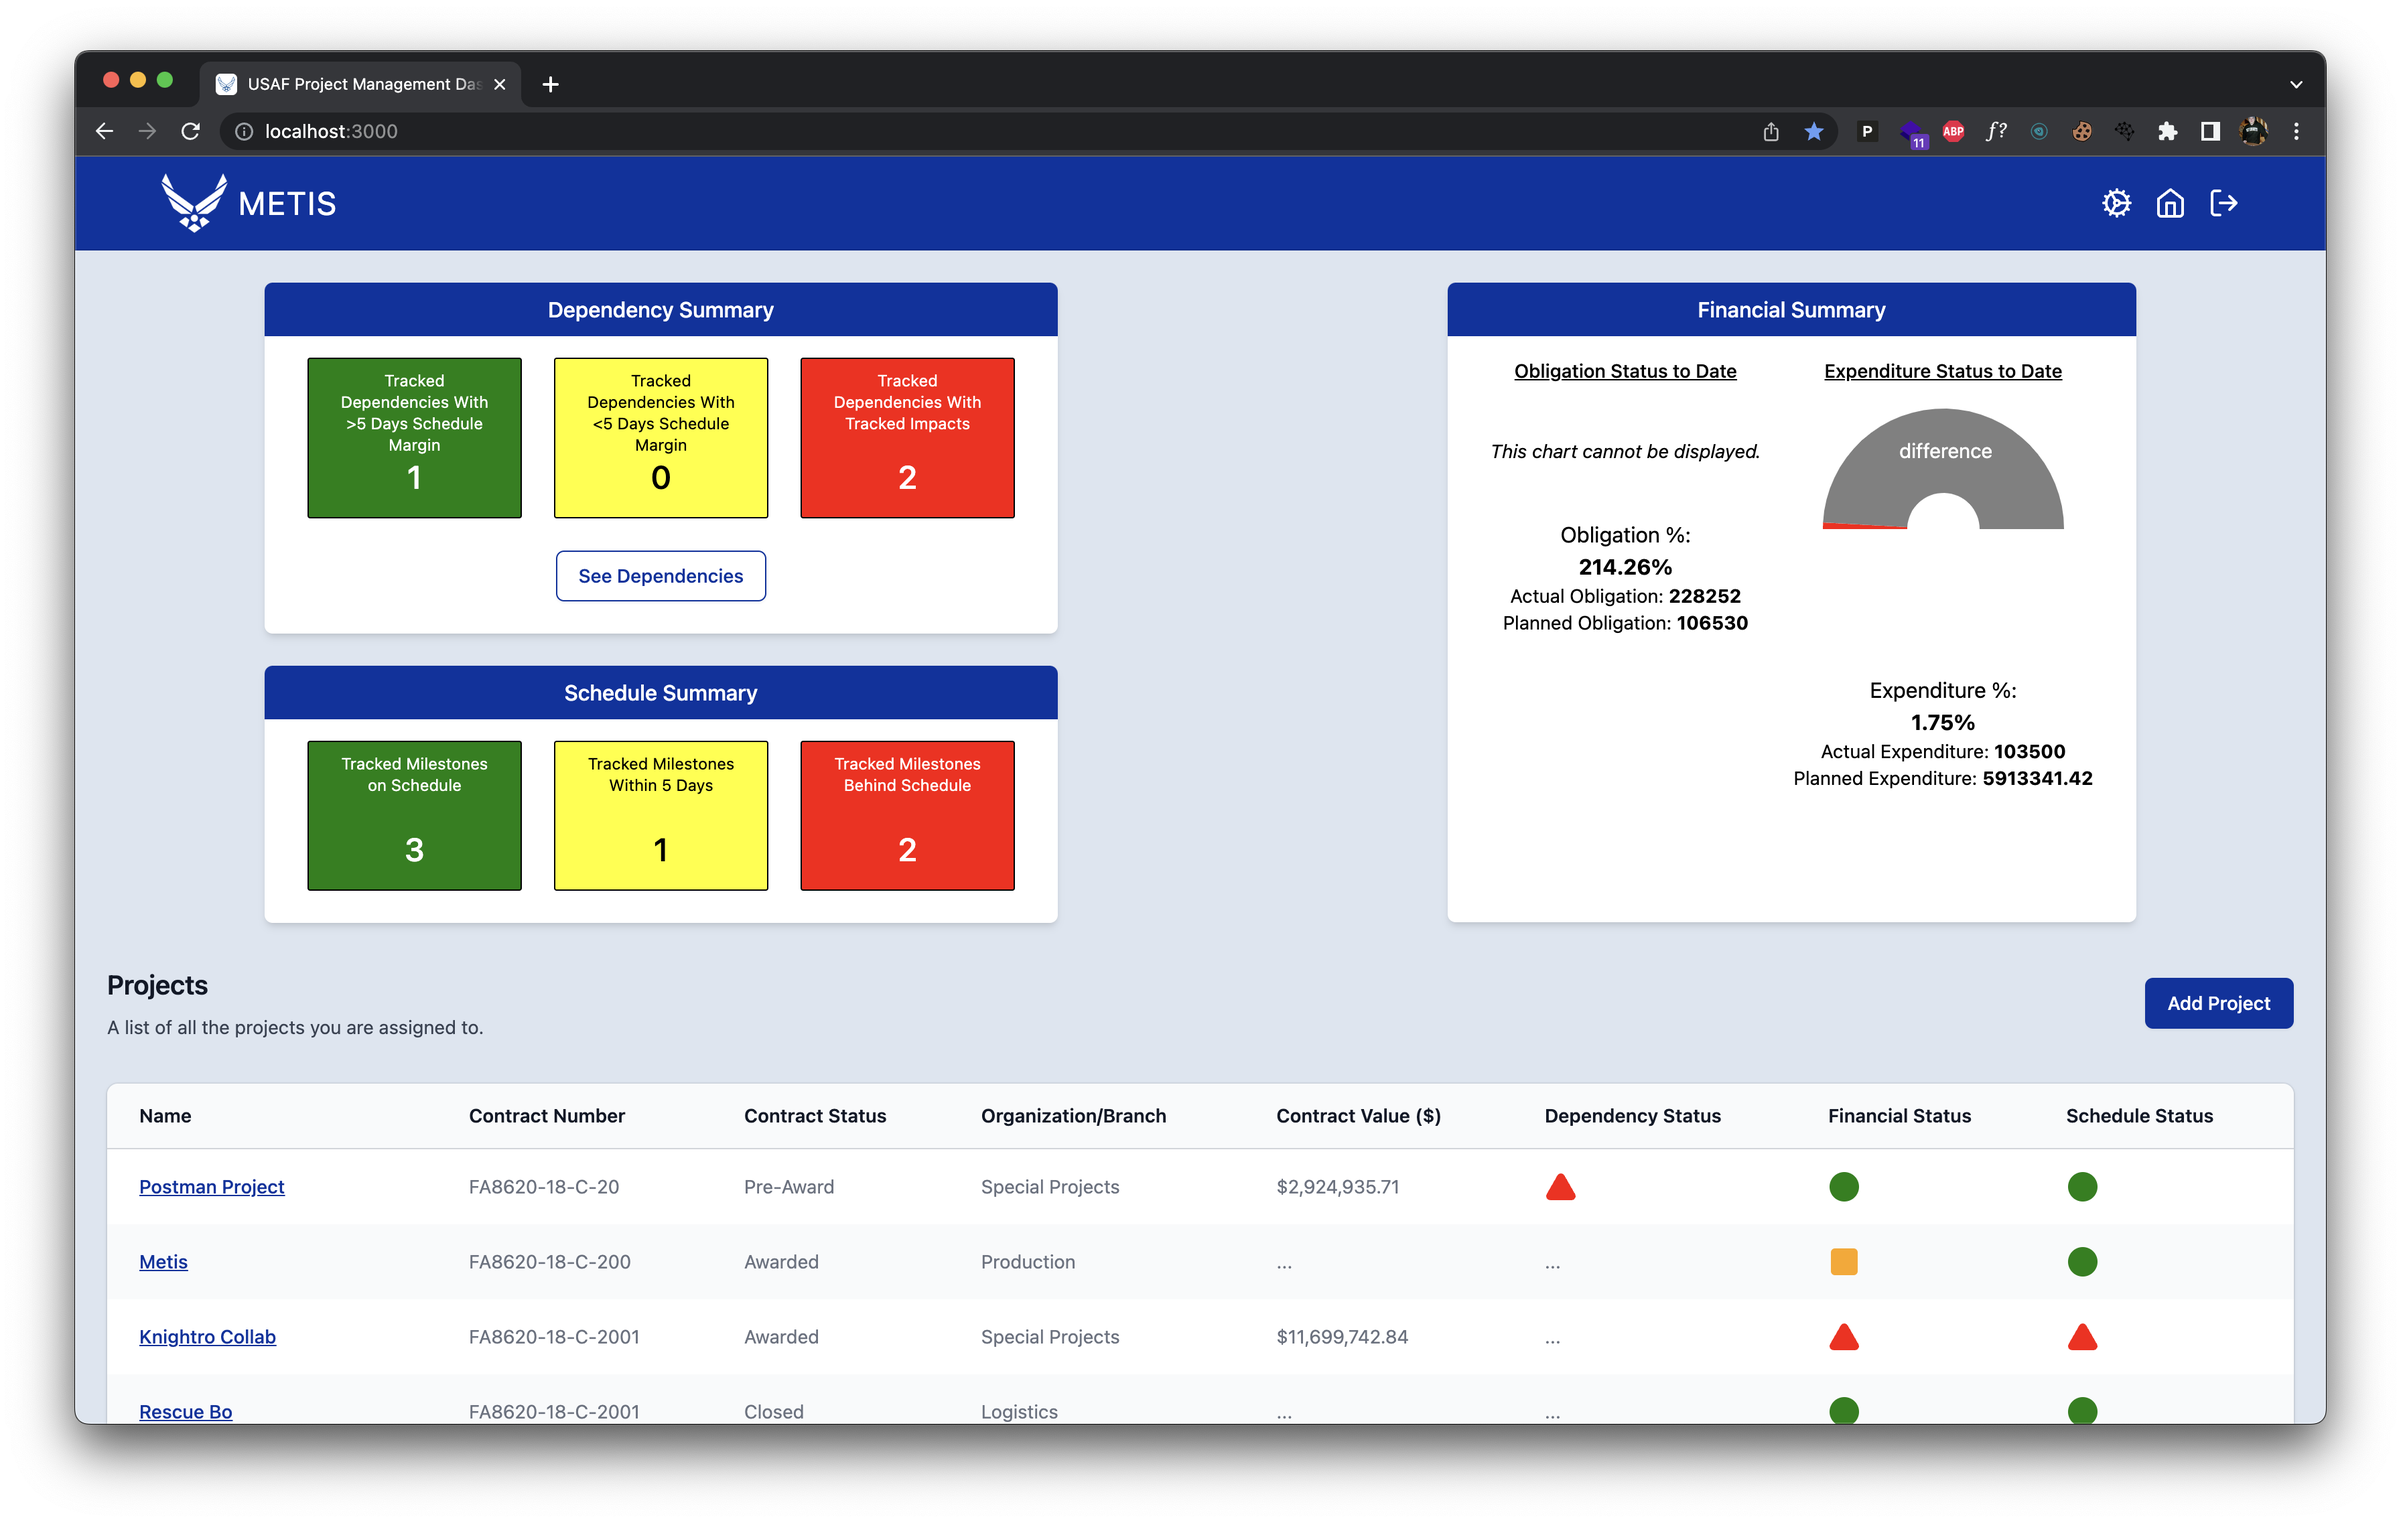
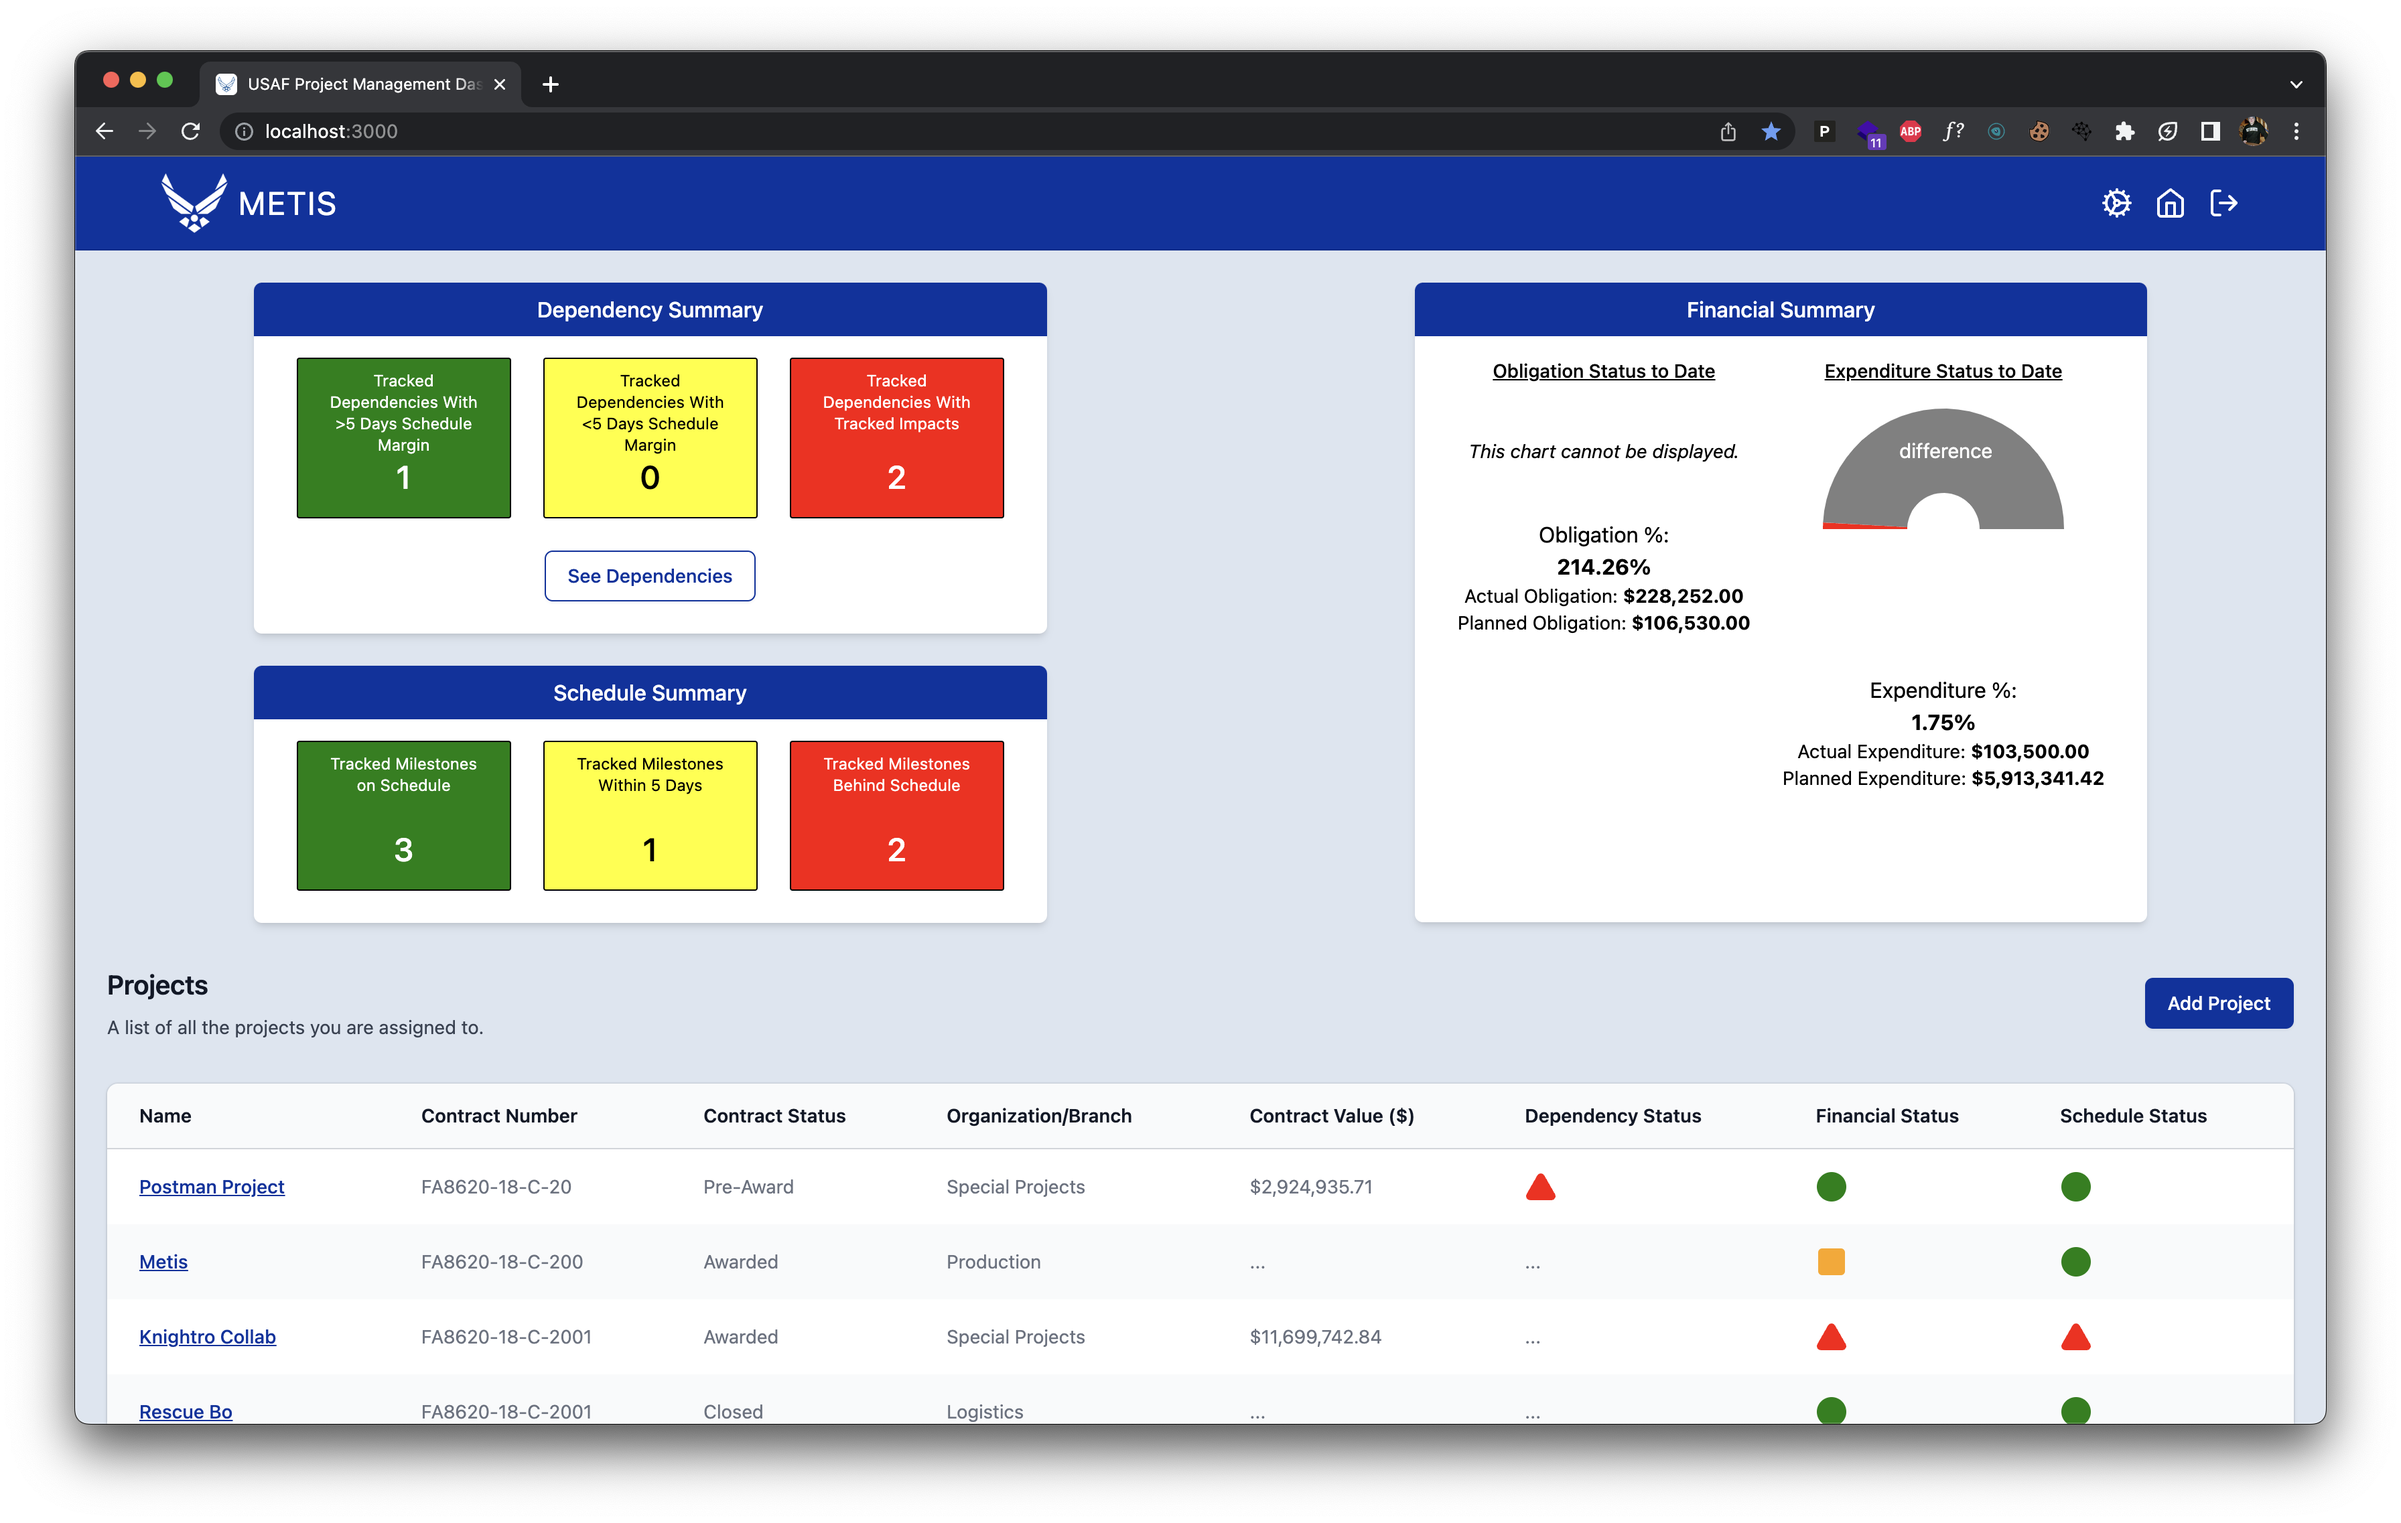
updated financial summary dollar signs

diff --git a/src/components/summaries/financial-summary.tsx b/src/components/summaries/financial-summary.tsx
@@ -1,6 +1,7 @@
 import { Chart } from "react-google-charts";
 
 import { api } from "~/utils/api";
+import { formatCurrency } from "~/utils/currency";
 
 function FinancialSummary() {
   const { data: obligation } = api.obligation.getTotalObligation.useQuery();
@@ -54,11 +55,20 @@ function FinancialSummary() {
                       ).toFixed(2)}%`}
                 </h2>
                 <p className="text-sm">
-                  Actual Obligation: <b>{obligation.obli_actual ?? "N/A"}</b>
+                  Actual Obligation:{" "}
+                  <b>
+                    {obligation.obli_actual
+                      ? formatCurrency(obligation.obli_actual)
+                      : "N/A"}
+                  </b>
                 </p>
                 <p className="text-sm">
                   Planned Obligation:{" "}
-                  <b>{obligation.obli_projected ?? "N/A"}</b>
+                  <b>
+                    {obligation.obli_projected
+                      ? formatCurrency(obligation.obli_projected)
+                      : "N/A"}
+                  </b>
                 </p>
               </div>
             </div>
@@ -102,11 +112,20 @@ function FinancialSummary() {
                       ).toFixed(2)}%`}
                 </h2>
                 <p className="text-sm">
-                  Actual Expenditure: <b>{expenditure.expen_actual ?? "N/A"}</b>
+                  Actual Expenditure:{" "}
+                  <b>
+                    {expenditure.expen_actual
+                      ? formatCurrency(expenditure.expen_actual)
+                      : "N/A"}
+                  </b>
                 </p>
                 <p className="text-sm">
                   Planned Expenditure:{" "}
-                  <b>{expenditure.expen_projected ?? "N/A"}</b>
+                  <b>
+                    {expenditure.expen_projected
+                      ? formatCurrency(expenditure.expen_projected)
+                      : "N/A"}
+                  </b>
                 </p>
               </div>
             </div>

diff --git a/src/components/projects/modals/modal-edit-project-contract-status.tsx b/src/components/projects/modals/modal-edit-project-contract-status.tsx
@@ -59,7 +59,7 @@ function ModalEditProjectContractStatus({
           closeModal(false);
         }}
       >
-        <div className="flex min-h-screen items-end justify-center px-4 pt-4 pb-20 text-center sm:block sm:p-0">
+        <div className="flex min-h-screen items-center justify-center px-4 pt-4 pb-20 text-center sm:block sm:p-0">
           <Transition.Child
             as={Fragment}
             enter="ease-out duration-300"
